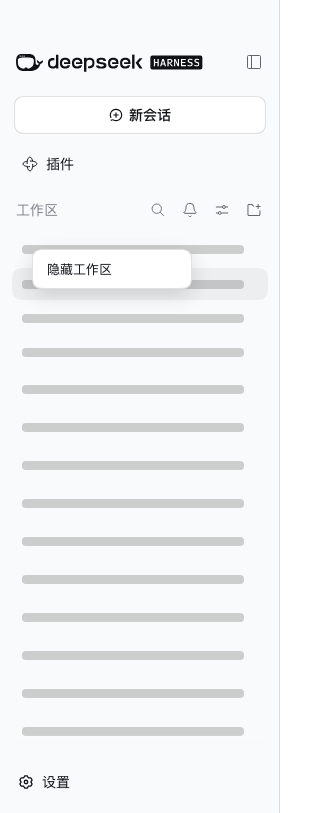
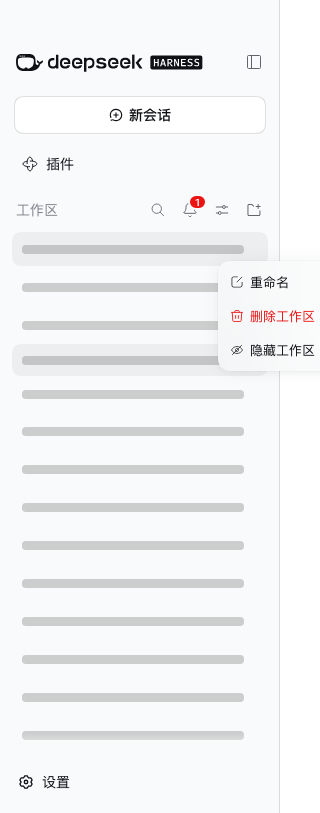
chore(release): 同步 0.3.0 的文档与展示产物
README 中英、AGENTS、CHANGELOG、.freak 与 package.json 统一改为「工作区
行菜单里的隐藏入口」，版本升到 0.3.0；AGENTS 新增「验收脚本必须走真实
指针序列」的明文规矩并记下这次的失效机制；展示截图由新的 verify:browser
重新产出。

diff --git a/README.en.md b/README.en.md
@@ -26,11 +26,11 @@ So the sidebar rots: you open one or two sessions in a project, archive them whe
 
 This plugin turns "it is empty now" into a passive signal: the moment a workspace's unarchived session count falls from `1+` to `0`, its sidebar row hides itself.
 
-**That moment is the only moment it acts on its own.** Manual hiding still lives in the right-click menu, and the restore entry sits at the bottom of the sidebar. The plugin owns no state.
+**That moment is the only moment it acts on its own.** Manual hiding lives in each workspace row's own "..." menu, and the restore entry sits at the bottom of the sidebar. The plugin owns no state.
 
 ## What it looks like
 
-![Right-click "隐藏工作区" and the "已隐藏 N" entry at the bottom](assets/showcase/hide-empty-workspace.gif)
+![The "隐藏工作区" entry inside a workspace row menu, and the "已隐藏 N" entry at the bottom](assets/showcase/hide-empty-workspace.gif)
 
 The frame above is clipped to the sidebar column, with workspace names redacted. Every frame was produced by `npm run verify:browser` against a live instance (DSH Desktop, 2026-10-02, 24 workspaces).
 
@@ -40,16 +40,18 @@ The same run, verbatim:
 PASS  signed browser session accepted at http://127.0.0.1:43129 (no 401)
 PASS  shipped sidebar still renders 24 workspace row(s) with data-row-key="workspace:<id>"
 PASS  no marker-mismatch banner: the row contract holds and the self-check stays quiet
-PASS  right-click on workspace:9a1f4aca-… opened the plugin's 「隐藏工作区」 entry
+PASS  the shipped Workspace row menu carries the 「隐藏工作区」 entry
+PASS  a real mouse press/release on the entry ran the action
+PASS  the appended entry closes the shipped menu it lives in
 PASS  「隐藏工作区」 recorded both workspaces in localStorage: 9a1f4aca-…, eb5f9d32-…
 PASS  display:none actually reached the shipped rows (1 hidden, 1 kept as the workspace in use)
 PASS  sidebar footer shows 「已隐藏 2」
 PASS  restore returned the hidden set to its original value: (empty)
 PASS  no workspace row is left hidden (0)
-10 passed, 0 failed
+11 passed, 0 failed
 ```
 
-Line 6 is a measured confirmation of the exception: hiding two workspaces in a row leaves exactly one at `display:none` — the other is the workspace currently in use, which stays visible by design.
+The `display:none` line is a measured confirmation of the exception: hiding two workspaces in a row leaves exactly one at `display:none` — the other is the workspace currently in use, which stays visible by design.
 
 ## Install
 
@@ -66,7 +68,7 @@ dsh plugin --profile web add /absolute/path/dsh-hide-empty-workspace
 ## When it fires
 
 - **Automatic**: you archive a workspace's last unarchived session → its row hides.
-- **Manual**: right-click any workspace row → "隐藏工作区".
+- **Manual**: hover any workspace row and pick "隐藏工作区" from its "..." menu.
 - **Restore**: the "已隐藏 N" entry at the bottom of the sidebar.
 - **Automatic restore**: a hidden workspace gains an unarchived session again → it reappears.
 
@@ -91,15 +93,15 @@ It will not fire for:
 - **Never rewrites the workspace registry**: it does not touch the `workspaces` service or `settings.yaml`.
 - **Never talks to the network.**
 - **The only write** is a hidden-set in browser `localStorage` (`dsh-hide-empty-workspace.hidden.v1`). Clear it and everything is back.
-- **Never replaces the official UI**: it only toggles `display` on rows the shell already rendered. If a DSH upgrade removes those rows it will not fail silently — the sidebar footer shows `⚠ 工作区行标记失配，插件未生效`.
+- **Never replaces the official UI**: it only toggles `display` on rows the shell already rendered and appends one entry to the row's own "..." menu; it does not take over or redraw any shipped component. If a DSH upgrade removes those rows it will not fail silently — the sidebar footer shows `⚠ 工作区行标记失配，插件未生效`.
 
 ## Layout
 
 ```text
 index.js                    host half (this plugin needs no host capability; a placeholder apply)
-client.js                   browser half: the rule, the context menu, the restore entry, the self-check
+client.js                   browser half: the rule, the row-menu entry, the restore entry, the self-check
 cordis.patch.yml            the bundle layer that inserts this plugin
-tests/hidden-workspaces.test.mjs   16 pure-function unit tests
+tests/hidden-workspaces.test.mjs   19 pure-function unit tests
 scripts/verify-browser.mjs  live-browser verification + showcase recording
 scripts/check-release.mjs   offline release gate
 assets/showcase/            screenshots and GIF produced by verify-browser
@@ -111,12 +113,12 @@ AGENTS.md                   boundaries and commands for the next session
 ## Verification
 
 ```sh
-npm test                  # 16 pure-function unit tests
-npm run verify:browser    # live browser verification (9 assertions); needs a running instance
-npm run check-release     # release gate: manifest, entry points, module id, platform seed
+npm test                  # 19 pure-function unit tests
+npm run verify:browser    # live browser verification (11 assertions); needs a running instance
+npm run check-release     # release gate: manifest, entry points, module id, platform seed, version match
 npm run verify            # test + check-release
 ```
 
-`npm run verify:browser` does its own authentication and evidence gathering: it reads the `client-connection/browser-session` secret from `$DSH_HOME/.credentials.yaml`, signs a browser session cookie in the `v1.<payload>.<hmac>` form, injects it over CDP, opens the instance, asserts nine things and keeps the screenshots. Captures redact the sidebar row text and clip to the sidebar column by default (`--no-redact` disables it). It hides two workspaces along the way and then **treats restoring them as part of the assertions**, so it leaves no trace.
+`npm run verify:browser` does its own authentication and evidence gathering: it reads the `client-connection/browser-session` secret from `$DSH_HOME/.credentials.yaml`, signs a browser session cookie in the `v1.<payload>.<hmac>` form, injects it over CDP, opens the instance, asserts eleven things and keeps the screenshots. Captures redact the sidebar row text and clip to the sidebar column by default (`--no-redact` disables it). It hides two workspaces along the way and then **treats restoring them as part of the assertions**, so it leaves no trace.
 
 Unit tests cannot tell you whether the slot ever mounted, so every claim that the plugin works must come with `verify:browser` output.

diff --git a/README.md b/README.md
@@ -26,11 +26,11 @@
 
 这个插件把「空了」变成一个**被动触发的清理信号**：某工作区的未归档会话数从 `1+` 掉到 `0` 的那一刻，它的侧栏行自动隐藏。
 
-**它只在那一刻动手。** 手动隐藏仍然在右键菜单里；恢复入口在侧栏底部。插件不接管任何状态。
+**它只在那一刻动手。** 手动隐藏在任一工作区行自己的「…」菜单里；恢复入口在侧栏底部。插件不接管任何状态。
 
 ## 效果示例
 
-![右键「隐藏工作区」与底部「已隐藏 N」入口](assets/showcase/hide-empty-workspace.gif)
+![工作区行菜单里的「隐藏工作区」与底部「已隐藏 N」入口](assets/showcase/hide-empty-workspace.gif)
 
 上图是侧栏一列的截图，工作区名已隐去。每一帧都由 `npm run verify:browser` 在真实实例上产出（DSH Desktop，2026-10-02，24 个工作区）。
 
@@ -40,16 +40,18 @@
 PASS  signed browser session accepted at http://127.0.0.1:43129 (no 401)
 PASS  shipped sidebar still renders 24 workspace row(s) with data-row-key="workspace:<id>"
 PASS  no marker-mismatch banner: the row contract holds and the self-check stays quiet
-PASS  right-click on workspace:9a1f4aca-… opened the plugin's 「隐藏工作区」 entry
+PASS  the shipped Workspace row menu carries the 「隐藏工作区」 entry
+PASS  a real mouse press/release on the entry ran the action
+PASS  the appended entry closes the shipped menu it lives in
 PASS  「隐藏工作区」 recorded both workspaces in localStorage: 9a1f4aca-…, eb5f9d32-…
 PASS  display:none actually reached the shipped rows (1 hidden, 1 kept as the workspace in use)
 PASS  sidebar footer shows 「已隐藏 2」
 PASS  restore returned the hidden set to its original value: (empty)
 PASS  no workspace row is left hidden (0)
-10 passed, 0 failed
+11 passed, 0 failed
 ```
 
-第 6 行是一次**实测**确认：连着隐藏两个工作区，只有一个变成 `display:none`，另一个是「正在使用的工作区」——它按设计保持可见。
+`display:none` 那一行是一次**实测**确认：连着隐藏两个工作区，只有一个变成 `display:none`，另一个是「正在使用的工作区」——它按设计保持可见。
 
 ## 快速开始
 
@@ -81,14 +83,14 @@ Windows 上把路径换成本机对应位置即可，参数不变。
 ## 触发方式
 
 - **自动**：你把某个工作区的最后一个未归档会话归档掉 → 它的行隐藏。
-- **手动**：在任意工作区行上**右键** → 「隐藏工作区」。任何情况下都立即隐藏。
+- **手动**：悬停任意工作区行，点行内「…」菜单里的「隐藏工作区」。任何情况下都立即隐藏。
 - **恢复**：侧栏底部的「已隐藏 N」→ 展开 → 「恢复 <标题>」。
 - **自动恢复**：某个被隐藏的工作区重新有了未归档会话 → 自动取消隐藏。
 
 不会触发的情况：
 
 - **刚添加的工作区**：新工作区没有会话，但它是「首次见到」的，只被记录、不被隐藏。这是本插件不做「无会话即隐藏」的直接原因。
-- **正在使用的工作区**：即使满足隐藏条件也保持可见（上面第 6 条断言实测到的就是它）。
+- **正在使用的工作区**：即使满足隐藏条件也保持可见（上面 `display:none` 那条断言实测到的就是它）。
 - **「未分组」桶**：永不隐藏。
 
 ## 它和同类有什么不同
@@ -106,15 +108,15 @@ Windows 上把路径换成本机对应位置即可，参数不变。
 - **不改写工作区注册**：不动 `workspaces` 服务，不动 `settings.yaml`。
 - **不联网**：插件不发任何请求。
 - **唯一写入**是浏览器 `localStorage` 里的隐藏集合（键 `dsh-hide-empty-workspace.hidden.v1`）。清掉它，一切恢复原样。
-- **不替换官方 UI**：只在官方已经渲染好的行上切 `display`；官方改版导致找不到行时，它不再默默无闻——侧栏底部会出现 `⚠ 工作区行标记失配，插件未生效`。
+- **不替换官方 UI**：只在官方已经渲染好的行上切 `display`，并在工作区行自带的「…」菜单里追加一项；不接管、不重绘官方组件。官方改版导致找不到行时，它不再默默无闻——侧栏底部会出现 `⚠ 工作区行标记失配，插件未生效`。
 
 ## 文件结构
 
 ```text
 index.js                    宿主半边（本插件不需要宿主能力，占位 apply）
-client.js                   浏览器半边：判定、右键菜单、恢复入口、自检
+client.js                   浏览器半边：判定、行菜单项注入、恢复入口、自检
 cordis.patch.yml            bundle 层，声明插入本插件
-tests/hidden-workspaces.test.mjs   16 条纯函数单测
+tests/hidden-workspaces.test.mjs   19 条纯函数单测
 scripts/verify-browser.mjs  真实浏览器验收 + 展示产物录制
 scripts/check-release.mjs   离线发布门
 assets/showcase/            由 verify-browser 产出的截图与 GIF
@@ -126,9 +128,9 @@ AGENTS.md                   给下一次会话的边界与命令
 ## 验证与测试
 
 ```sh
-npm test                  # 16 条纯函数单测
-npm run verify:browser    # 真实浏览器验收，需要实例在跑（9 条断言）
-npm run check-release     # 发布门：清单、入口、模块 id、platform seed
+npm test                  # 19 条纯函数单测
+npm run verify:browser    # 真实浏览器验收，需要实例在跑（11 条断言）
+npm run check-release     # 发布门：清单、入口、模块 id、platform seed、版本一致性
 npm run verify            # test + check-release
 ```
 

diff --git a/AGENTS.md b/AGENTS.md
@@ -1,10 +1,10 @@
 # dsh-hide-empty-workspace
 
-DSH Web 插件：最后一个未归档会话被归档的瞬间，自动隐藏该工作区在侧边栏的行；另配右键手动隐藏与侧栏底部恢复入口。只切 `display`，不归档、不删除、不改写工作区注册与会话数据。
+DSH Web 插件：最后一个未归档会话被归档的瞬间，自动隐藏该工作区在侧边栏的行；另在工作区行自带的「…」菜单里追加「隐藏工作区」，并配侧栏底部恢复入口。只切 `display`，不归档、不删除、不改写工作区注册与会话数据。
 
 ## 怎么跑
 
-- 开发：`npm test`（16 条纯函数单测），`npm run verify:browser`（真实浏览器验收，需要实例在跑），`npm run check-release`（发布门）。
+- 开发：`npm test`（19 条纯函数单测），`npm run verify:browser`（真实浏览器验收，需要实例在跑），`npm run check-release`（发布门）。
 - 装进实例：把本目录以 `link:` 或路径形式加进 profile 的 `dependencies` 与 `dsh.profile.bundles` 两处，然后刷新页面。客户端半边只改文件即生效（symlink），宿主半边改动要 `remove` + `add`。
 - 本仓库**没有构建步骤**：`client.js` / `index.js` 就是交付产物，改完不必 build。
 
@@ -19,6 +19,7 @@ DSH Web 插件：最后一个未归档会话被归档的瞬间，自动隐藏该
 - **改 `client.js` 的任何判定逻辑前先跑 `npm test`**；新增失败模式必须先在 `tests/` 写出会失败的用例。
 - **声称「插件有效」必须附 `npm run verify:browser` 的实测输出**，不能只引单测：单测证明不了 slot 有没有挂上。
 - **面向用户的文案（告警、菜单、恢复入口）只允许在 `client.js` 里出现一处**，测试用 `markerWarningText` 这类函数把它钉住。
+- **验收脚本里的用户手势必须走真实指针序列**（CDP `Input.dispatchMouseEvent`：移动 → 按下 → 抬起），**MUST NOT** 用 `element.click()` 代替：合成 click 不经过 `pointerdown`，会漏掉「菜单在 pointerdown 阶段自毁」这类失效。2026-10-02 实测踩过——右键菜单版在被点的一瞬间就被 pointerdown 卸掉，真实鼠标点了没反应，而 `element.click()` 一直全绿。
 - **截图类产物必须经 `--redact` 产出**（默认开启）；`--no-redact` 只在本地自查时用，不得入库。
 - 发布动作（建仓库、push、打 tag、npm publish、投稿目录）每一步单独授权，不合并成一次「发一下」。
 
@@ -29,10 +30,11 @@ DSH Web 插件：最后一个未归档会话被归档的瞬间，自动隐藏该
 - `localStorage` 键固定为 `dsh-hide-empty-workspace.hidden.v1`。
 - 正在使用的工作区（`retainedBy.mainView > 0` 所属）与「未分组」桶永不隐藏。
 - **本插件不做任何状态写操作**：不归档、不取消归档、不删除工作区、不联网；唯一写入是 `localStorage` 里的隐藏集合。
+- 隐藏入口只**追加**到官方工作区行菜单末尾：官方没有工作区行 action 的 slot，所以走 DOM 追加，并从当前打开的菜单克隆菜单项 class；不替换、不重绘任何官方组件。
 
 ## 当前状态与下一步
 
-- 已实现（0.2.0）：自动隐藏、手动隐藏、恢复入口、当前工作区例外、行标记失配自检、发布元数据与发布门。
-- 已验证：`npm test` 16/16；`npm run verify:browser` 9 条断言全过（2026-10-02，DSH Desktop，24 个工作区，带 `--gif` 时输出 `10 passed`，多的一行是产物确认）——含「右键弹出隐藏入口」「隐藏落到 localStorage 且 display:none 生效」「恢复后集合与可见性回到原样」。
+- 已实现（0.2.0，0.3.0 调整手动隐藏入口）：自动隐藏、工作区行菜单里的手动隐藏、恢复入口、当前工作区例外、行标记失配自检、发布元数据与发布门。0.3.0 把手动隐藏从插件自建的右键菜单改挂到官方工作区行菜单；右键入口一并移除。
+- 已验证：`npm test` 19/19；`npm run verify:browser` 11 条断言全过（2026-10-02，DSH Desktop，24 个工作区）——含「官方行菜单里出现隐藏入口」「真实鼠标按下/抬起后动作生效」「追加项关闭官方菜单」「隐藏落到 localStorage 且 display:none 生效」「恢复后集合与可见性回到原样」。反向对照做过一次：给菜单项临时加回 `pointerdown` 自毁，脚本立刻报 `only 0/2 hides were persisted` 并退出码 1。
 - 未验证：侧栏收成 rail 时组件不挂载，该形态下的行为未在真实浏览器确认；与 `dsh-better-workspace` 等接管侧栏的插件同时启用时的表现未实测（详见 `.freak`）。
 - 下一步：awesome-dsh-plugin 投稿已提（[PR #6376](https://github.com/awesome-dsh-plugin/awesome-dsh-plugin/pull/6376)，2026-10-02），等年龄门自动放行与 review；未做且需按需授权的是 npm 发布、CI、rail 形态验收。

diff --git a/CHANGELOG.md b/CHANGELOG.md
@@ -2,6 +2,16 @@
 
 本项目遵循 [Keep a Changelog](https://keepachangelog.com/zh-CN/1.1.0/) 的分节习惯，版本号遵循语义化版本。
 
+## 0.3.0 — 2026-10-02
+
+### 变更
+- **手动隐藏改挂官方工作区行菜单**：不再自建右键菜单，改为在官方工作区行 hover 出现的「…」菜单末尾追加「隐藏工作区」。官方没有工作区行 action 的 slot，因此走 DOM 追加，并从当前打开的菜单克隆菜单项 class，样式跟随官方；菜单项点击后主动派发 Escape 关闭官方菜单（它不是官方 React 树里的节点，用不了官方的关闭 hook）。
+- **移除右键入口**：插件自建的右键菜单与相关判定一并删除。
+
+### 修复
+- **右键点了「隐藏工作区」没反应**：旧实现在任意 `pointerdown` 上关闭自建菜单，真实鼠标按下时菜单节点先被卸载，随后的 `click` 落空；只有 `element.click()` 这类合成事件不受影响，所以一直没被发现。
+- **验收脚本改走真实指针序列**：`scripts/verify-browser.mjs` 的交互全部改用 CDP `Input.dispatchMouseEvent`（移动 → 按下 → 抬起），不再用 `element.click()`；并新增「官方行菜单里出现隐藏入口」「真实鼠标点击后动作生效」「追加项关闭官方菜单」三条断言。旧脚本对上面的失效完全无感，一直是假绿。
+
 ## 0.2.0 — 2026-10-02
 
 ### 新增
